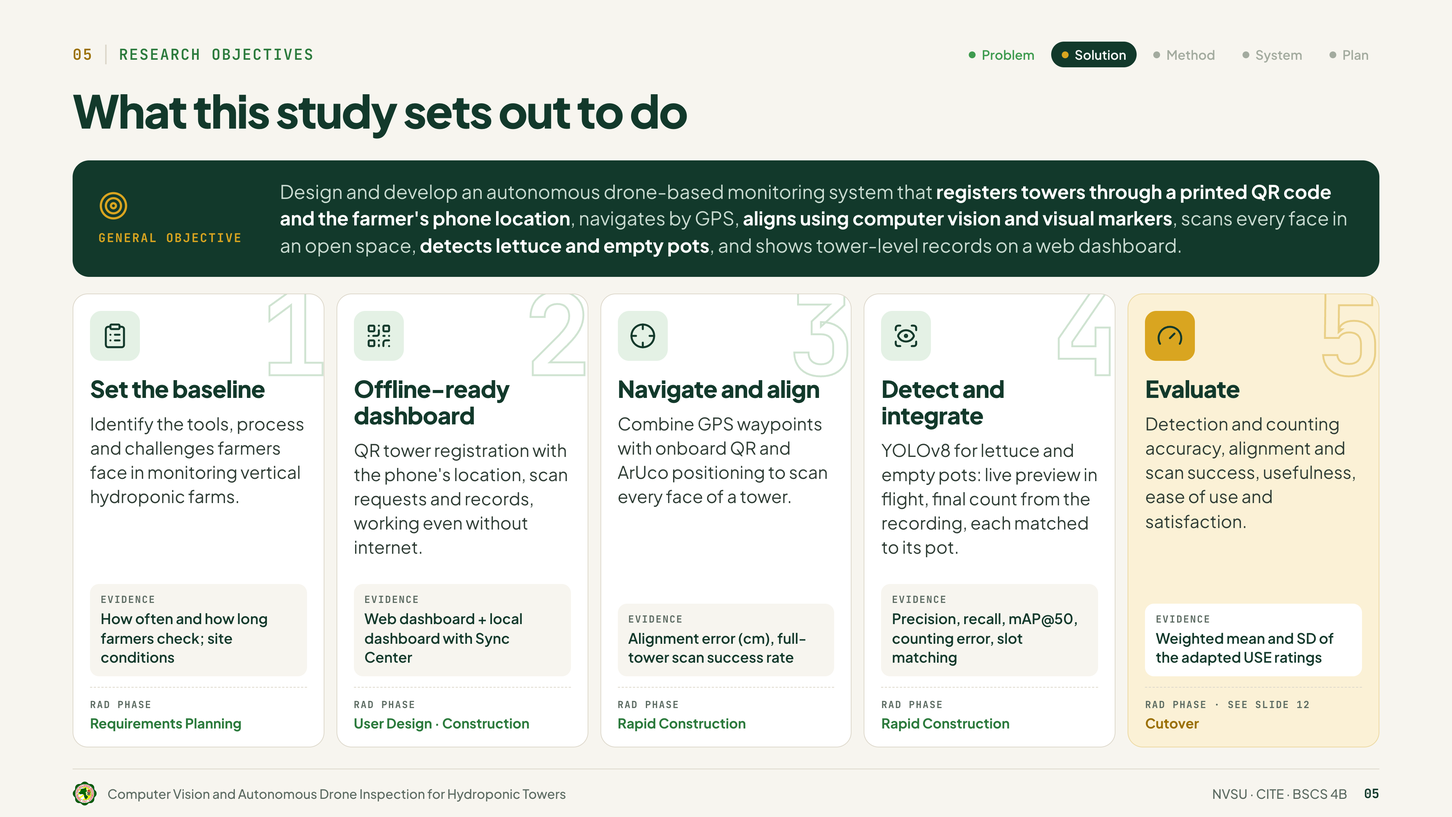
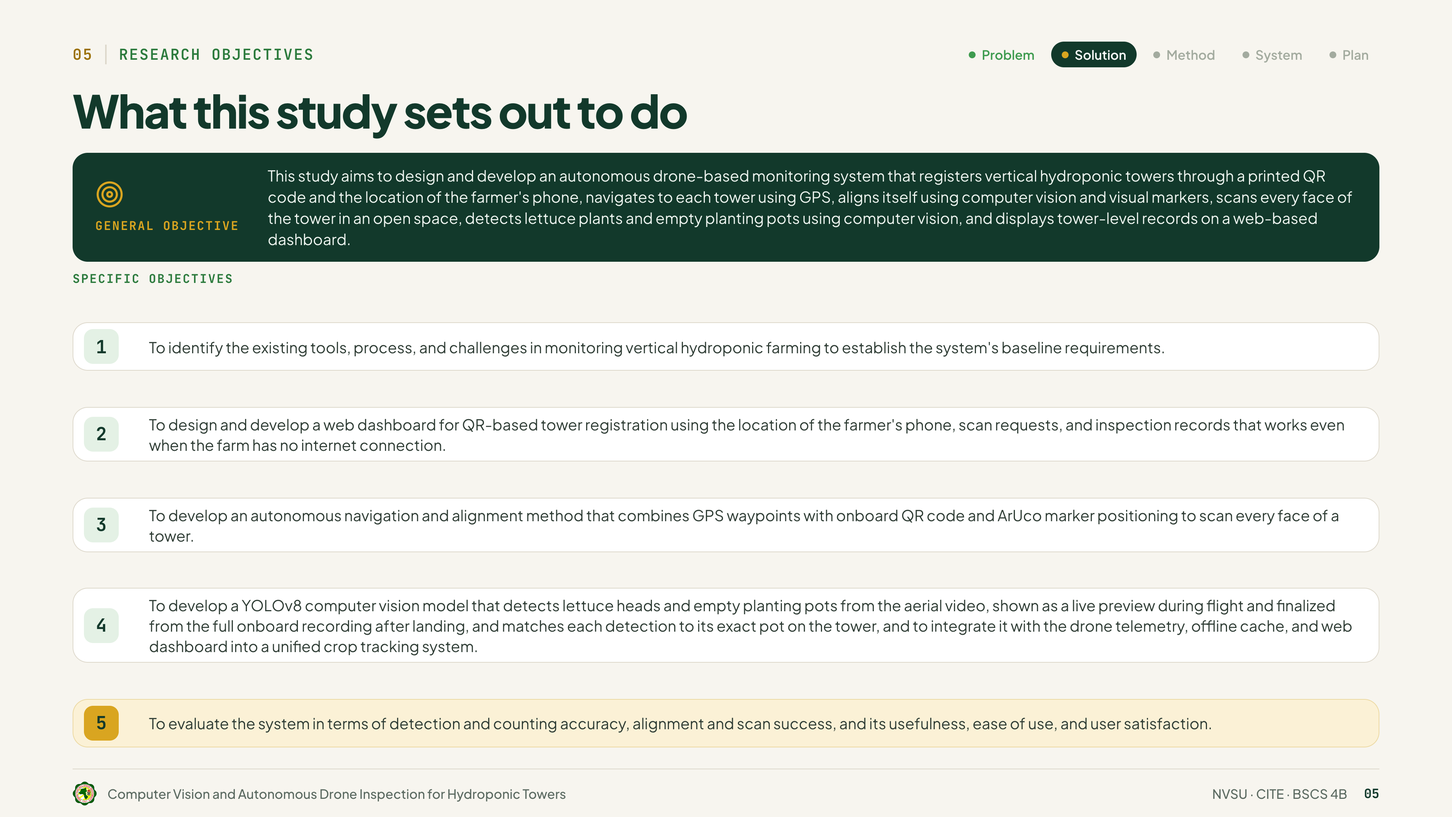
docs: update thesis proposal defense script, QA prep, and presentation slides

Changed region(s): [[0.0312, 0.1861, 0.9688, 0.9306]]

diff --git a/PROPOSAL v2/slide-builder/src/slide-05.html b/PROPOSAL v2/slide-builder/src/slide-05.html
@@ -5,38 +5,29 @@
 <title>Slide 05 · Research Objectives</title>
 <link rel="stylesheet" href="theme.css">
 <style>
-  .content { display: flex; flex-direction: column; gap: 22px; }
+  /* Wording is copied exactly from Chapter 1 v2, Objectives of the Study. */
+  .content { display: flex; flex-direction: column; gap: 12px; padding-top: 24px; }
 
   .general {
-    display: grid; grid-template-columns: 210px 1fr; gap: 30px; align-items: center;
-    padding: 24px 34px; border-radius: 22px; background: var(--forest); color: #fff;
+    display: grid; grid-template-columns: 200px 1fr; gap: 28px; align-items: center;
+    padding: 16px 30px; border-radius: 20px; background: var(--forest); color: #fff;
   }
   .general .label { color: var(--gold); font-size: 16px; display: flex; flex-direction: column; gap: 12px; }
-  .general .label .ico { width: 40px; height: 40px; }
-  .general p { font-size: 25px; line-height: 1.42; color: var(--on-dark-2); }
-  .general b { color: #fff; font-weight: 700; }
+  .general .label .ico { width: 38px; height: 38px; }
+  .general p { font-size: 20px; line-height: 1.4; color: #eef5f0; }
 
-  .specific { flex: 1; display: grid; grid-template-columns: repeat(5, 1fr); gap: 16px; }
-  .obj { padding: 22px 22px 20px; display: flex; flex-direction: column; position: relative; overflow: hidden; }
+  .specific { flex: 1; min-height: 0; display: grid; grid-template-rows: auto repeat(5, auto); align-content: space-between; gap: 8px; }
+  .specific > .label { font-size: 16px; color: var(--leaf-deep); }
+  .obj { display: grid; grid-template-columns: 64px 1fr; gap: 22px; align-items: center; padding: 8px 24px 8px 14px; }
   .obj .n {
-    position: absolute; right: -6px; top: -22px;
-    font-family: var(--mono); font-size: 150px; font-weight: 700; line-height: 1;
-    color: transparent; -webkit-text-stroke: 2.5px #cfe3d1;
+    width: 46px; height: 46px; border-radius: 12px;
+    display: grid; place-items: center;
+    background: var(--leaf-soft); color: var(--forest);
+    font-family: var(--mono); font-size: 24px; font-weight: 700;
   }
-  .obj .ico { width: 66px; height: 66px; padding: 15px; border-radius: 15px; background: var(--leaf-soft); color: var(--forest); position: relative; }
-  .obj h3 { margin-top: 20px; font-size: 31px; font-weight: 800; letter-spacing: -0.02em; color: var(--forest); line-height: 1.12; }
-  .obj p { margin-top: 12px; font-size: 23px; line-height: 1.4; color: var(--body); }
-  .obj .proof { margin-top: auto; padding: 12px 14px; border-radius: 12px; background: var(--paper); }
-  .obj .proof .k, .obj .phase .k { font-family: var(--mono); font-size: 13px; font-weight: 700; letter-spacing: 0.1em; text-transform: uppercase; color: var(--muted); }
-  .obj .proof div:last-child { margin-top: 4px; font-size: 19px; line-height: 1.35; font-weight: 600; color: var(--forest); }
-  .obj.eval .proof { background: #fff; }
-  .obj .phase { margin-top: 14px; padding-top: 14px; border-top: 1.5px dashed var(--line); }
-  .obj .phase .k { font-family: var(--mono); font-size: 13px; font-weight: 700; letter-spacing: 0.1em; text-transform: uppercase; color: var(--muted); }
-  .obj .phase div:last-child { margin-top: 4px; font-size: 18px; font-weight: 700; color: var(--leaf-deep); }
+  .obj p { font-size: 20px; line-height: 1.35; color: var(--body); }
   .obj.eval { background: var(--gold-soft); border-color: #ecd9a2; }
-  .obj.eval .ico { background: var(--gold); }
-  .obj.eval .n { -webkit-text-stroke-color: #e9cf86; }
-  .obj.eval .phase div:last-child { color: var(--gold-deep); }
+  .obj.eval .n { background: var(--gold); }
 </style>
 </head>
 <body data-num="05" data-part="solution" data-eyebrow="Research Objectives">
@@ -46,50 +37,16 @@
   <div class="content">
     <section class="general">
       <div class="label"><span class="ico"><i data-lucide="target"></i></span>General objective</div>
-      <p>Design and develop an autonomous drone-based monitoring system that <b>registers towers through a printed QR code and the farmer's phone location</b>, navigates by GPS, <b>aligns using computer vision and visual markers</b>, scans every face in an open space, <b>detects lettuce and empty pots</b>, and shows tower-level records on a web dashboard.</p>
+      <p>This study aims to design and develop an autonomous drone-based monitoring system that registers vertical hydroponic towers through a printed QR code and the location of the farmer's phone, navigates to each tower using GPS, aligns itself using computer vision and visual markers, scans every face of the tower in an open space, detects lettuce plants and empty planting pots using computer vision, and displays tower-level records on a web-based dashboard.</p>
     </section>
 
     <section class="specific">
-      <article class="card obj">
-        <span class="n">1</span>
-        <span class="ico"><i data-lucide="clipboard-list"></i></span>
-        <h3>Set the baseline</h3>
-        <p>Identify the tools, process and challenges farmers face in monitoring vertical hydroponic farms.</p>
-        <div class="proof"><div class="k">Evidence</div><div>How often and how long farmers check; site conditions</div></div>
-        <div class="phase"><div class="k">RAD phase</div><div>Requirements Planning</div></div>
-      </article>
-      <article class="card obj">
-        <span class="n">2</span>
-        <span class="ico"><i data-lucide="qr-code"></i></span>
-        <h3>Offline-ready dashboard</h3>
-        <p>QR tower registration with the phone's location, scan requests and records, working even without internet.</p>
-        <div class="proof"><div class="k">Evidence</div><div>Web dashboard + local dashboard with Sync Center</div></div>
-        <div class="phase"><div class="k">RAD phase</div><div>User Design · Construction</div></div>
-      </article>
-      <article class="card obj">
-        <span class="n">3</span>
-        <span class="ico"><i data-lucide="crosshair"></i></span>
-        <h3>Navigate and align</h3>
-        <p>Combine GPS waypoints with onboard QR and ArUco positioning to scan every face of a tower.</p>
-        <div class="proof"><div class="k">Evidence</div><div>Alignment error (cm), full-tower scan success rate</div></div>
-        <div class="phase"><div class="k">RAD phase</div><div>Rapid Construction</div></div>
-      </article>
-      <article class="card obj">
-        <span class="n">4</span>
-        <span class="ico"><i data-lucide="scan-eye"></i></span>
-        <h3>Detect and integrate</h3>
-        <p>YOLOv8 for lettuce and empty pots: live preview in flight, final count from the recording, each matched to its pot.</p>
-        <div class="proof"><div class="k">Evidence</div><div>Precision, recall, mAP@50, counting error, slot matching</div></div>
-        <div class="phase"><div class="k">RAD phase</div><div>Rapid Construction</div></div>
-      </article>
-      <article class="card obj eval">
-        <span class="n">5</span>
-        <span class="ico"><i data-lucide="gauge"></i></span>
-        <h3>Evaluate</h3>
-        <p>Detection and counting accuracy, alignment and scan success, usefulness, ease of use and satisfaction.</p>
-        <div class="proof"><div class="k">Evidence</div><div>Weighted mean and SD of the adapted USE ratings</div></div>
-        <div class="phase"><div class="k">RAD phase · see slide 12</div><div>Cutover</div></div>
-      </article>
+      <div class="label">Specific objectives</div>
+      <div class="card obj"><span class="n">1</span><p>To identify the existing tools, process, and challenges in monitoring vertical hydroponic farming to establish the system's baseline requirements.</p></div>
+      <div class="card obj"><span class="n">2</span><p>To design and develop a web dashboard for QR-based tower registration using the location of the farmer's phone, scan requests, and inspection records that works even when the farm has no internet connection.</p></div>
+      <div class="card obj"><span class="n">3</span><p>To develop an autonomous navigation and alignment method that combines GPS waypoints with onboard QR code and ArUco marker positioning to scan every face of a tower.</p></div>
+      <div class="card obj"><span class="n">4</span><p>To develop a YOLOv8 computer vision model that detects lettuce heads and empty planting pots from the aerial video, shown as a live preview during flight and finalized from the full onboard recording after landing, and matches each detection to its exact pot on the tower, and to integrate it with the drone telemetry, offline cache, and web dashboard into a unified crop tracking system.</p></div>
+      <div class="card obj eval"><span class="n">5</span><p>To evaluate the system in terms of detection and counting accuracy, alignment and scan success, and its usefulness, ease of use, and user satisfaction.</p></div>
     </section>
   </div>
 </div>

diff --git a/PROPOSAL v2/slide-builder/src/slide-12.html b/PROPOSAL v2/slide-builder/src/slide-12.html
@@ -72,11 +72,11 @@
         </article>
         <article class="card f hl">
           <div class="name">Counting error per tower</div><div class="what">Lettuce and empty pots vs. a manual count</div>
-          <div class="eq"><span class="frac" style="font-size:27px"><span>|system − manual|</span><span>manual</span></span><span class="small">× 100%</span></div>
+          <div class="eq" style="font-family: var(--sans); font-style: normal; font-size: 22px; font-weight: 700; color: var(--forest); white-space: normal">System count compared with the manual count</div>
         </article>
         <article class="card f hl">
           <div class="name">Slot matching accuracy</div><div class="what">Each slot's status vs. the actual pot</div>
-          <div class="eq"><span class="frac"><span>correct slots</span><span>total slots</span></span><span class="small">× 100%</span></div>
+          <div class="eq" style="font-family: var(--sans); font-style: normal; font-size: 22px; font-weight: 700; color: var(--forest); white-space: normal">Assigned status compared with the actual pot</div>
         </article>
         <article class="card f">
           <div class="name">Interviews</div><div class="what">Qualitative needs data</div>

diff --git a/PROPOSAL v2/slide-builder/src/slide-03c.html b/PROPOSAL v2/slide-builder/src/slide-03c.html
@@ -39,7 +39,7 @@
       <div class="why"><p><span class="tag adopted">Adopted</span>Fair-weather flights, RTL failsafes, open-category rules.</p></div>
 
       <div class="who"><small>Method and evaluation</small><span>Fauzi et al. (2023)</span><span>Hajesmaeel-Gohari et al. (2022)</span></div>
-      <div class="what"><span>RAD has the shortest completion time among SDLC models; the USE questionnaire (30 items, 7-point) covers usefulness, ease of use and satisfaction.</span></div>
+      <div class="what"><span>RAD has the shortest completion time among SDLC models; the USE questionnaire (30 items, 7-point) covers usefulness, ease of use, ease of learning and satisfaction.</span></div>
       <div class="why"><p><span class="tag adopted">Adopted</span>RAD model; USE adapted to a 5-point scale.</p></div>
     </div>
 

diff --git a/PROPOSAL v2/slide-builder/src/slide-08b.html b/PROPOSAL v2/slide-builder/src/slide-08b.html
@@ -56,7 +56,7 @@
       <div class="label">Target dataset</div>
       <div class="big">2,000</div>
       <div class="unit">labeled tower images</div>
-      <p class="basis">Close to the 2,240 frames Wang et al. (2024) used for YOLOv8n on hydroponic lettuce, and above the 1,500-images-per-class guideline (Ultralytics).</p>
+      <p class="basis">Close to the 2,240 frames Wang et al. (2024) used for YOLOv8n on hydroponic lettuce, and meets the guideline of at least 1,500 images per class (Ultralytics).</p>
 
       <div class="classes">
         <div class="cls">

diff --git a/PROPOSAL v2/slide-builder/src/slide-03d.html b/PROPOSAL v2/slide-builder/src/slide-03d.html
@@ -88,7 +88,7 @@
       <div><span class="n"><i data-lucide="minus"></i></span></div>
       <div><span class="n"><i data-lucide="minus"></i></span></div>
 
-      <div class="row"><b>Marker-based UAVs</b><span>Kalaitzakis 2021 · Andrzejewski 2026</span></div>
+      <div class="row"><b>Marker-based UAVs</b><span>Andrzejewski 2026</span></div>
       <div><span class="n"><i data-lucide="minus"></i></span></div>
       <div><span class="n"><i data-lucide="minus"></i></span></div>
       <div><span class="y"><i data-lucide="check"></i></span></div>

diff --git a/PROPOSAL v2/slide-builder/src/slide-02a.html b/PROPOSAL v2/slide-builder/src/slide-02a.html
@@ -109,7 +109,7 @@
         <div class="e"><i></i>Empty pot</div>
       </div>
       <div class="sensor">
-        <div class="label"><span class="ico"><i data-lucide="activity"></i></span>IoT sensor readout</div>
+        <div class="label"><span class="ico"><i data-lucide="activity"></i></span>Example IoT readout</div>
         <div class="readings">
           <span>pH 6.1</span><span>24 °C</span><span>EC 1.4</span><span>RH 72%</span>
           <span class="miss"><span class="ico"><i data-lucide="eye-off"></i></span>Empty pots: ?</span>

diff --git a/PROPOSAL v2/slide-builder/src/slide-11.html b/PROPOSAL v2/slide-builder/src/slide-11.html
@@ -81,9 +81,9 @@
         <span class="k">STEP 4</span>
         <h3>Data Processing</h3>
         <ul>
-          <li>Code interview responses</li>
-          <li>Log test results <b>per tower and flight</b></li>
-          <li>Tally USE ratings per category</li>
+          <li>Data <b>organized and categorized</b></li>
+          <li>Interview responses <b>coded</b></li>
+          <li>Flight and detection test results recorded</li>
         </ul>
       </article>
       <article class="glass step">

diff --git a/PROPOSAL v2/slide-builder/src/slide-08a.html b/PROPOSAL v2/slide-builder/src/slide-08a.html
@@ -78,7 +78,7 @@
         <ul>
           <li><b>Farmer interviews</b>, incl. how often and how long checks take</li>
           <li>Site observation sheet</li>
-          <li>Components rated on cost, weight, fit</li>
+          <li>Components rated on availability, cost, weight, compatibility</li>
           <li>SWOT analysis</li>
         </ul>
       </article>

diff --git a/PROPOSAL v2/slide-builder/src/slide-10.html b/PROPOSAL v2/slide-builder/src/slide-10.html
@@ -64,7 +64,7 @@
 </head>
 <body data-num="10" data-part="method" data-eyebrow="Research Instruments">
 <div class="slide">
-  <h1 class="title">Four instruments, <em>from farmer interviews to flight logs</em></h1>
+  <h1 class="title">Three instruments, <em>plus the system's own test logs</em></h1>
 
   <div class="content">
     <div class="docs">

diff --git a/PROPOSAL v2/slide-builder/src/slide-14.html b/PROPOSAL v2/slide-builder/src/slide-14.html
@@ -36,7 +36,7 @@
 </head>
 <body data-num="14" data-part="plan" data-eyebrow="Project Timeline (Gantt Chart)">
 <div class="slide">
-  <h1 class="title">Six months, <em>following the RAD phases</em></h1>
+  <h1 class="title">Proposed schedule, <em>following the RAD phases</em></h1>
 
   <div class="content">
     <div class="gantt">

diff --git a/PROPOSAL v2/DEFENSE-SCRIPT.md b/PROPOSAL v2/DEFENSE-SCRIPT.md
@@ -18,7 +18,11 @@ Our thesis is "Computer Vision and Autonomous Drone Inspection for Hydroponic To
 
 Vertical farms grow crops in stacked towers. They save land and water, but only if they are managed well. A big part of that is knowing which pots have plants and which are empty, so the farmer knows where to replant and what to harvest.
 
-Today, this is still checked by hand. Studies from Iloilo and Bohol show that farms still monitor and record manually. Most farm technology uses IoT sensors, but these only measure things like temperature, pH and nutrients. A sensor cannot tell if a pot is empty.
+Today, this is still checked by hand. Studies from Iloilo and Bohol show that farms still monitor and record manually. Most farm technology uses IoT sensors, but these only measure things like temperature, pH and nutrients. These sensors cannot tell if a pot is empty.
+
+You could put a weight sensor under every pot, but that means one device, with its own wiring and power, for every pot on every tower, and the cost grows with each pot added. A weight sensor also gives only a number. It cannot show the plant itself.
+
+A camera solves both. One drone can check every pot on every tower, and each tower needs only a printed sign. Every scan also saves pictures of every pot. In this study, we use those pictures for one thing: counting lettuce and empty pots. But the same pictures can later be used to monitor the crops themselves, such as plant health or harvest readiness, and future researchers can reuse them.
 
 And a farm has many towers, and towers can be made taller. So checking every pot by hand takes longer as the farm grows. That is the problem our study solves.
 
@@ -46,23 +50,25 @@ Thank you. We reviewed 38 sources. For each one, the table shows what it found a
 
 Studies on vertical farming, like van Delden and Saad, say towers work well only with good management. Local projects, like SIGLA at UPLB, use towers with separate planting slots, the same layout we scan. Domingo and Bunga show that local farms still monitor by hand. IoT studies like Dhanaraju and Santiago measure the air and water, but none of them checks if a pot is empty.
 
-For registration, Qian shows phones read QR codes reliably, and phone GPS is accurate to about 4.9 meters. So we use a QR sign and the phone's GPS, but GPS only gets the drone close to the tower.
+For registration, Qian shows phones read QR codes reliably, and phone GPS is accurate to about 4.9 meters. So we use a QR sign and the phone's GPS. GPS gets the drone within a few meters of the tower. From there, the drone's camera finds the large marker on the tower sign and locks on. The QR code on the same sign tells it which tower and which side it is facing.
 
 ---
 
 ## 03b · Related Literature: Detection and Flight (Marvilla)
 
-For detection, Wang and colleagues used YOLOv8 to find hydroponic lettuce with about 99 percent accuracy, so we use YOLOv8 too. But their model did not detect empty pots, and their camera did not move. Ours detects both, from a moving drone.
+This table covers two things: how our system sees, and how our drone flies.
 
-To avoid counting the same pot twice, we use a tracker called ByteTrack. Villacrés showed that counts can still be off by about 20 percent, so we will check our counts against manual counts.
+YOLOv8 is a well-known AI model that finds objects in pictures. Wang and colleagues used it on hydroponic lettuce, and it scored about 99 percent in both precision and recall. That means it found almost every lettuce head and was almost never wrong, so we chose it too. But their model looked only for lettuce, not for empty pots, and their camera never moved. Ours will find both, from a moving drone.
 
-For the drone, Aslan found almost no drone studies on farms like ours, and CogniFly, a drone under 250 grams, inspired our design. Other studies used markers to guide drones, but only for landing, not for flying beside a tower.
+In a video, the same plant shows up in many frames. So we use a tracker called ByteTrack, which follows each plant from frame to frame so it is counted only once. Even then, Villacrés found that counts from video can be off by about 20 percent, so we will check our counts against a count done by hand.
+
+For flying, Aslan found that farm drones are mostly used over open fields, and almost never in greenhouses, close to the plants. CogniFly, a small drone under 250 grams that can survive bumps, showed that a light drone is safer near plants, so we based our design on it. And other studies used printed markers only to help a drone land on the ground. None used them to keep a drone beside a tower while it scans. That is what our drone does.
 
 ---
 
 ## 03c · Related Literature: Processing and Data (Marvilla)
 
-Shalash found that AI models run slowly on a small Raspberry Pi, under 3 frames per second. So in our system, the AI runs on the laptop, while the drone's Raspberry Pi only reads the markers and steers. Zhu and Chen showed that Wi-Fi can lag, which is another reason the laptop never controls the drone.
+Shalash found that AI models run slowly even on a Raspberry Pi 4 or 5, mostly under 3 frames per second, and our smaller Pi Zero 2 W is expected to do worse. So in our system, the AI runs on the laptop, while the drone's Raspberry Pi only reads the markers and steers. Zhu and Chen showed that Wi-Fi can lag, which is another reason the laptop never controls the drone.
 
 Internet in rural areas is unreliable, so, like Mayta's offline-first app, we save results locally and upload them later.
 
@@ -75,6 +81,10 @@ The remaining studies guided our dashboard, our safety rules under CAAP, our dev
 To sum up: IoT studies cannot see empty pots. Lettuce detection studies do not detect empty pots. Farm drones fly over fields, not around a single tower. And marker-based drones use markers only for landing.
 
 No study we found combines all of these into one low-cost system. That is our research gap, and that is what this study will build.
+
+---
+
+slide-04-0
 
 ---
 
@@ -102,15 +112,15 @@ Everything at the farm works on local Wi-Fi, without internet. Internet is neede
 
 ## 05 · Research Objectives (Valentino)
 
-Thank you. Our general objective is to build a drone system that registers towers by QR code, flies to them, scans every side, detects lettuce and empty pots, and shows the results on a web dashboard.
+Thank you. This study aims to design and develop an autonomous drone-based monitoring system that registers vertical hydroponic towers through a printed QR code and the location of the farmer's phone, navigates to each tower using GPS, aligns itself using computer vision and visual markers, scans every face of the tower in an open space, detects lettuce plants and empty planting pots using computer vision, and displays tower-level records on a web-based dashboard.
 
-Specifically, we aim to:
+The specific objectives of the study are:
 
-1. Find out how farmers monitor their towers today and what problems they face.
-2. Build a web dashboard for registering towers, requesting scans and viewing results, which works even without internet.
-3. Develop the drone's navigation and alignment using GPS and markers.
-4. Train a YOLOv8 model to detect lettuce and empty pots and match each one to its pot.
-5. Evaluate the system's accuracy and how useful and easy to use it is.
+1. To identify the existing tools, process, and challenges in monitoring vertical hydroponic farming to establish the system's baseline requirements.
+2. To design and develop a web dashboard for QR-based tower registration using the location of the farmer's phone, scan requests, and inspection records that works even when the farm has no internet connection.
+3. To develop an autonomous navigation and alignment method that combines GPS waypoints with onboard QR code and ArUco marker positioning to scan every face of a tower.
+4. To develop a YOLOv8 computer vision model that detects lettuce heads and empty planting pots from the aerial video, shown as a live preview during flight and finalized from the full onboard recording after landing, and matches each detection to its exact pot on the tower, and to integrate it with the drone telemetry, offline cache, and web dashboard into a unified crop tracking system.
+5. To evaluate the system in terms of detection and counting accuracy, alignment and scan success, and its usefulness, ease of use, and user satisfaction.
 
 ---
 
@@ -156,13 +166,13 @@ Our respondents are one hydroponic farmer and three IT experts from CITE, four i
 
 ## 10 · Research Instruments (Fernandez)
 
-We use four instruments:
+We use three instruments, plus the system's own test records:
 - A survey questionnaire, adapted from the USE questionnaire, to rate how useful, easy to use and satisfying the system is, on a five-point scale.
 - An interview guide, to learn how farmers monitor their towers today.
 - An observation checklist, for the tower and the flying area.
-- A system evaluation tool, which is the test records from the drone and the model.
+- And the system evaluation tool, which is the test records from the drone and the model.
 
-Our adviser reviews and approves the instruments before we collect any data.
+Our adviser reviews and approves the interview questionnaire before we collect any data.
 
 ---
 
@@ -170,9 +180,9 @@ Our adviser reviews and approves the instruments before we collect any data.
 
 We gather data in five steps:
 1. We get approval from the school and the farm owner.
-2. Our adviser validates the instruments.
+2. Our adviser reviews and approves the interview questionnaire.
 3. We collect data: interviews with consent, site observation, tower photos for the dataset, test flights, and the survey.
-4. We organize the data per tower and per flight.
+4. We organize and categorize the data, and code the interview responses.
 5. We analyze it.
 
 Participation is voluntary, personal data is protected under the Data Privacy Act, and photos show only the towers, not people.
@@ -186,7 +196,7 @@ For the AI model, we measure three things:
 - Recall: how many of the actual pots it found.
 - mAP: a standard overall accuracy score.
 
-For counting, we compare the system's count with a manual count for each tower, and check whether each pot was matched correctly. For the drone, we measure how well it aligns, how often it finishes a full scan, and how long each flight takes.
+For counting, we compare the system's count with a manual count of lettuce and empty pots on each tower, and compare the status assigned to each slot with the actual pot. For the drone, we measure how well it aligns, how often it finishes a full scan, and how long each flight takes.
 
 For the survey, we compute the weighted mean and standard deviation and interpret the results with this scale, from Highly Acceptable down to Highly Not Acceptable.
 
@@ -236,7 +246,7 @@ On the laptop, they can watch a scan live and upload the results when they have 
 
 ## 14 · Project Timeline (Lopez)
 
-We plan to finish in six months, following the RAD phases: planning first, then designing and building in cycles, then testing, user evaluation, and the final defense.
+We propose a six-month schedule, following the RAD phases: planning first, then designing and building in cycles, then testing, user evaluation, and the final defense.
 
 ---
 

diff --git a/PROPOSAL v2/THESIS-PROPOSAL-DEFENSE.md b/PROPOSAL v2/THESIS-PROPOSAL-DEFENSE.md
@@ -31,7 +31,7 @@ Target length: **about 19 minutes** of presentation, then open forum. Slides kee
 | 13b | Proposed System Architecture · Scan Sequence | **System** | 0:55 | Lopez | How one scan runs, and the failsafes. |
 | 13c | Proposed System Architecture · Technical Design | **System** | 0:35 | Lopez | Power, flight control, companion computer, ground link. |
 | 13d | Proposed System Architecture · Key Features | **System** | 0:35 | Lopez | Architecture layers and dashboard features. |
-| 14 | Project Timeline (Gantt Chart) | **Plan** | 0:25 | Lopez | Six months along the RAD phases. |
+| 14 | Project Timeline (Gantt Chart) | **Plan** | 0:25 | Lopez | Proposed six-month schedule along the RAD phases (not set in Chapter 1 v2). |
 | 15 | Expected Output | **Plan** | 0:35 | Lopez | Anticipated benefits and deliverables. |
 | 16 | Budget Requirements | **Plan** | 0:30 | Lopez | About ₱25,600 to ₱28,500 in hardware. |
 | 17 | Thank You / Open Forum | Closing | 0:10 | All | Invite questions. |
@@ -110,7 +110,7 @@ Target length: **about 19 minutes** of presentation, then open forum. Slides kee
 | Mirandilla-Santos (2021); Serafica et al. (2023); Mayta et al. (2026) | **92%** of barangays have cell signal, rural areas lag; offline-first app kept 100% sync. | **Evidence:** internet can't be assumed. **Adopted:** offline cache + Sync Center. |
 | Schulze Schwering et al. (2022); Supabase (n.d.) | FMIS useful but underused; Supabase Realtime pushes changes live. | **Adopted:** Supabase + Next.js dashboard. |
 | Meier et al. (2022); ArduPilot Dev Team (n.d.); CAAP (2026) | Wind estimation from flight data; battery failsafe RTL; Part 11 open category (≤25 kg, VLOS, <120 m, daylight, **30 m** from others). | **Adopted:** fair-weather flights, RTL failsafes, open-category rules. |
-| Fauzi et al. (2023); Hajesmaeel-Gohari et al. (2022) | RAD has the shortest completion time among SDLC models; USE questionnaire: 30 items, 7-point. | **Adopted:** RAD; USE adapted to 5 points. |
+| Fauzi et al. (2023); Hajesmaeel-Gohari et al. (2022) | RAD has the shortest completion time among SDLC models; USE questionnaire: 30 items in four sections (usefulness, ease of use, ease of learning, satisfaction), 7-point. | **Adopted:** RAD; USE adapted to 5 points. |
 
 **Slide 3d: Research Gap**
 
@@ -188,7 +188,7 @@ To design and develop an autonomous drone-based monitoring system that registers
 **Research Design**
 
 * **Developmental research design**, **mixed-method** (interviews + tests and ratings), **RAD** (Fauzi et al., 2023).
-* **Phase 1 – Requirements Planning:** interviews, including how often and how long checks take; site observation; component selection; SWOT.
+* **Phase 1 – Requirements Planning:** interviews, including how often and how long checks take; site observation; components rated on availability, cost, weight, compatibility; SWOT.
 * **Phase 2 – User Design:** architecture, sign and marker layout, mission and slot matching, Supabase schema, dashboard shown to users, Gazebo + SITL (full scan, lost markers, lost Wi-Fi).
 * **Phase 3 – Rapid Construction:** drone build, thrust test, AutoTune; 1.5 m tower, sign, markers; ~2,000 labeled images → YOLOv8; streaming, alignment, cache, dashboards. Stage 1, then Stage 2.
 * **Phase 4 – Cutover:** model, flight, streaming and sync tests; end to end; USE evaluation; documentation.
@@ -196,7 +196,7 @@ To design and develop an autonomous drone-based monitoring system that registers
 **Slide 8b: Research Methodology · Dataset**
 
 * About **2,000 labeled images**: ≥ 1,500 with lettuce, ≥ 1,500 with empty pots, 5–10% background.
-* Basis: Wang et al. (2024) used 2,240 frames; Ultralytics recommends ≥ 1,500 images per class.
+* Basis: Wang et al. (2024) used 2,240 frames; meets the Ultralytics guideline of at least 1,500 images per class.
 * Capture from every side, distance and lighting → one frame per ~1 s → label in Supabox (YOLO format) → train YOLOv8.
 * Split 70/20/10 (~1,400 / ~400 / ~200); each recording session stays in one set.
 
@@ -238,7 +238,7 @@ To design and develop an autonomous drone-based monitoring system that registers
 1. **Secure Approval:** letter of request; approval from school authorities and the farm owner.
 2. **Validation of Instruments:** interview questionnaire reviewed and approved by the adviser.
 3. **Data Collection:** ~15-min interviews with informed consent; observation checklist; tower photos into the Supabox dataset; test flights; then the survey questionnaire.
-4. **Data Processing:** code interview responses; log test results per tower and flight; tally ratings per category.
+4. **Data Processing:** data organized and categorized; interview responses coded; flight and detection test results recorded.
 5. **Data Analysis:** themes update the SWOT; performance metrics; weighted mean and SD.
 
 *Ethics:* voluntary; RA 10173; consent for audio and photos, towers not people; AI use disclosed.
@@ -248,7 +248,7 @@ To design and develop an autonomous drone-based monitoring system that registers
 **Slide 12: Statistical Treatment of Data**
 
 * **Precision** = TP / (TP + FP) · **Recall** = TP / (TP + FN) · **mAP@50**.
-* **Counting error per tower** = |system − manual| / manual × 100% · **Slot matching accuracy** = correct slots / total slots × 100%.
+* **Counting error per tower:** system counts compared with manual counts of lettuce and empty pots · **Slot matching accuracy:** status assigned to each slot compared with the actual pot.
 * **Flight tests:** alignment success rate, mean alignment error (cm), full-tower scan completion, stream delay and frame loss, flight time per tower.
 * **Weighted mean** x̄ = Σfx / n and **standard deviation** per category.
 * **Thematic analysis** of interviews → SWOT.
